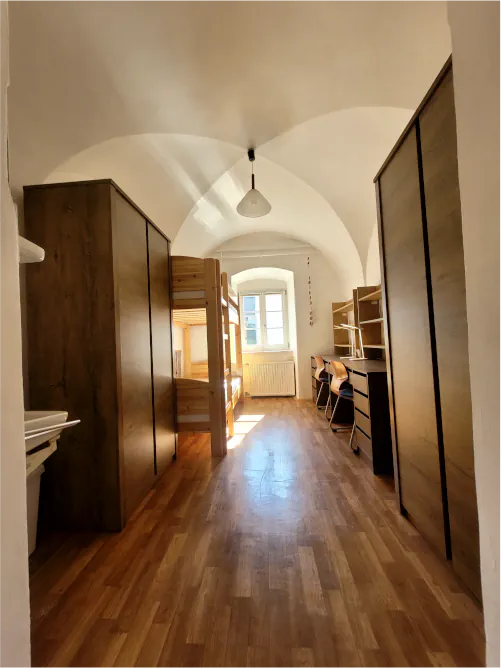
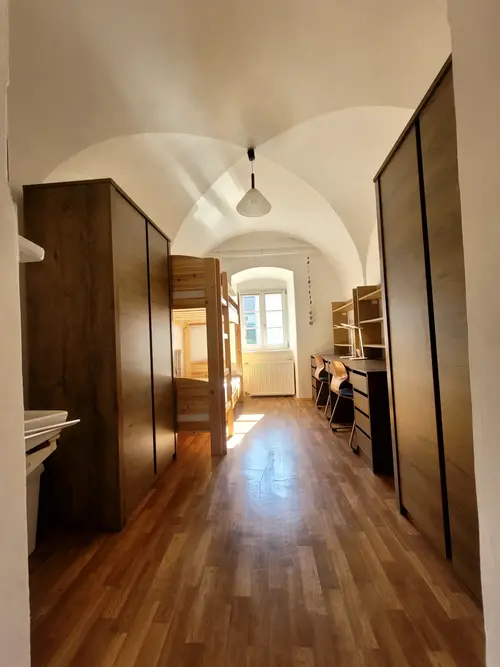
Gallery update 1

diff --git a/index.html b/index.html
@@ -272,20 +272,8 @@
 
             <div class="slideshow-container">
                 <div class="mySlides fade calendar">
-                    <img alt="májusi naptár" class="slupe" src="/src/pictures/naptarak/maj26.jpg">
+                    <img alt="szeptemberi naptár" class="slupe" src="/src/pictures/naptarak/szept26.jpg">
                 </div>
-                <div class="mySlides fade calendar">
-                    <img alt="áprilisi naptár" class="slupe" src="/src/pictures/naptarak/apr26.webp">
-                </div>
-
-                <div class="mySlides fade calendar">
-                    <img alt="márciusi naptár" class="slupe" src="/src/pictures/naptarak/marc26.jpg">
-                </div>
-
-                <div class="mySlides fade calendar">
-                    <img alt="februári naptár" class="slupe" src="/src/pictures/naptarak/feb26.webp">
-                </div>
-
             </div>
 
             <!--        <a class="prev" onclick="plusSlidesCal(-1)">❮</a>-->

diff --git a/Galeria.html b/Galeria.html
@@ -73,6 +73,14 @@
         -->
 
         <section class="year">
+        <img alt="2026 Pizzázás thumbnail" class="thumbnail" data-max="38"
+             data-path="/src/pictures/gallery/2026_Pizzazas/"
+             id="2026_Pizzazas" onclick="changeGallery(this)"
+             src="/src/pictures/gallery/2026_Pizzazas/0.webp">
+        <p>Pizzázás 🍕𓅡</p>
+        </section>
+
+        <section class="year">
             <img alt="2026 A kollégiumi Szobáink thumbnail" class="thumbnail" data-max="3"
                  data-path="/src/pictures/gallery/2526_szobak/"
                  id="x" onclick="changeGallery(this)"
